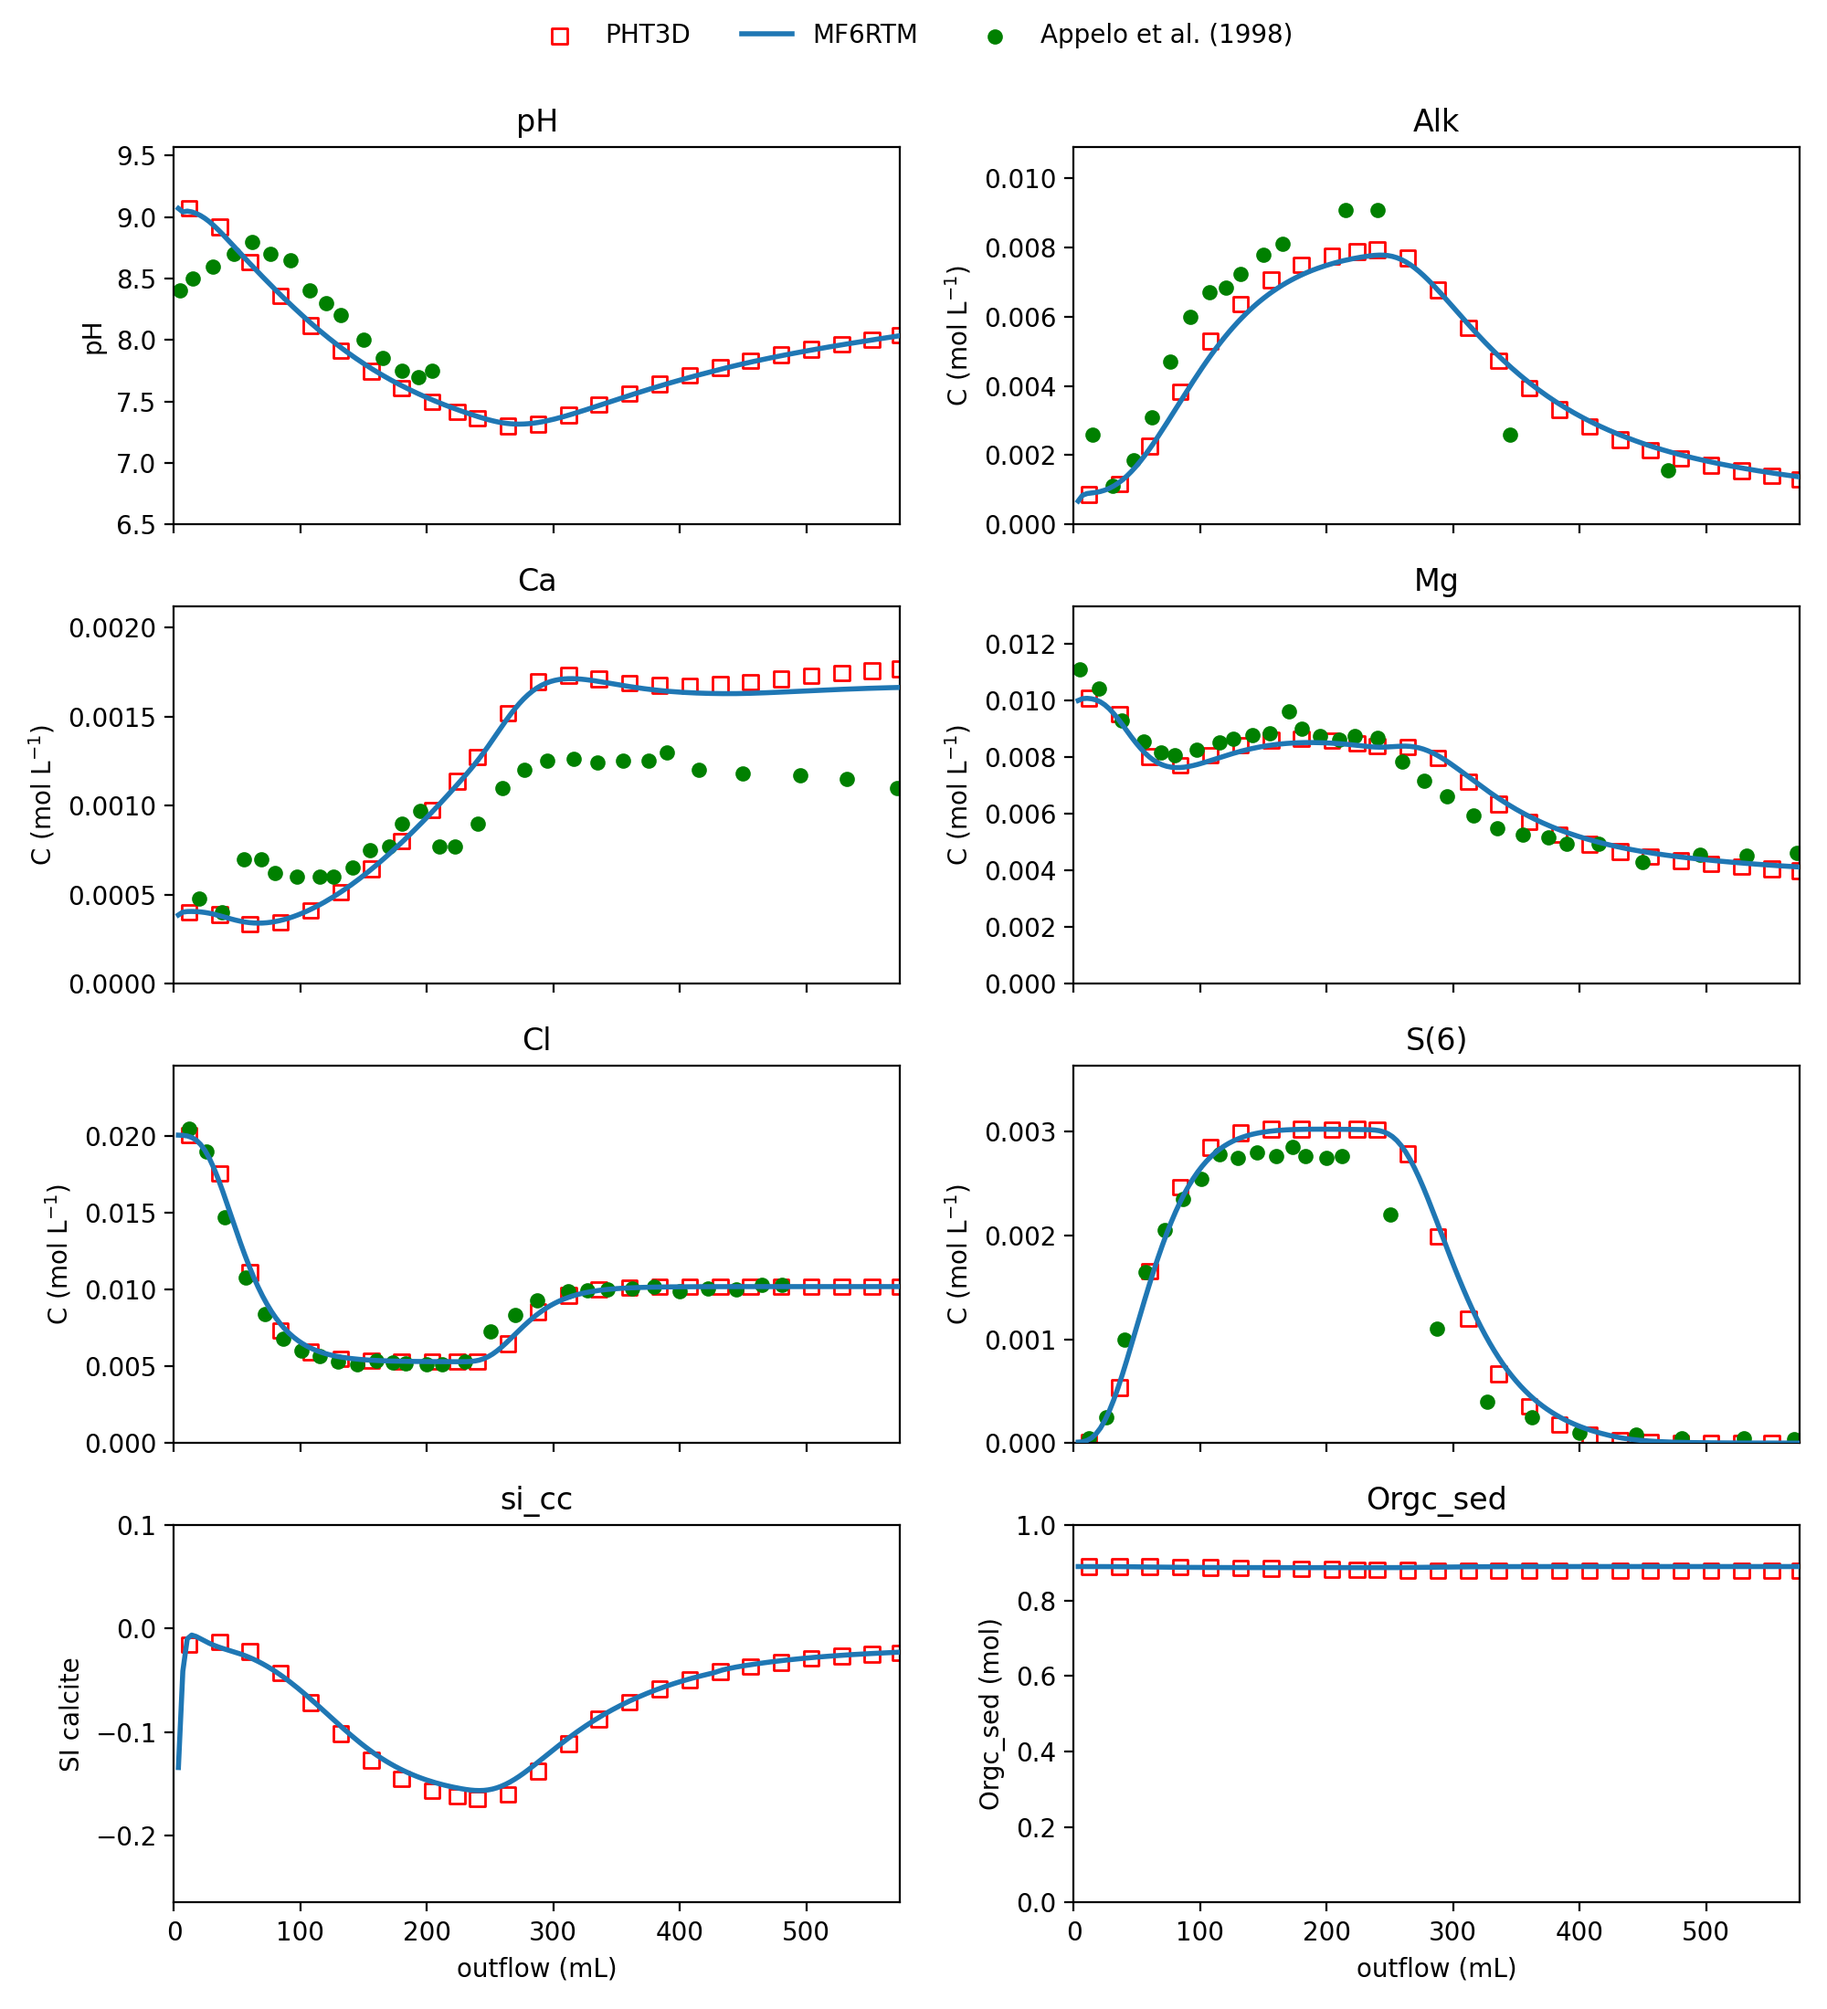
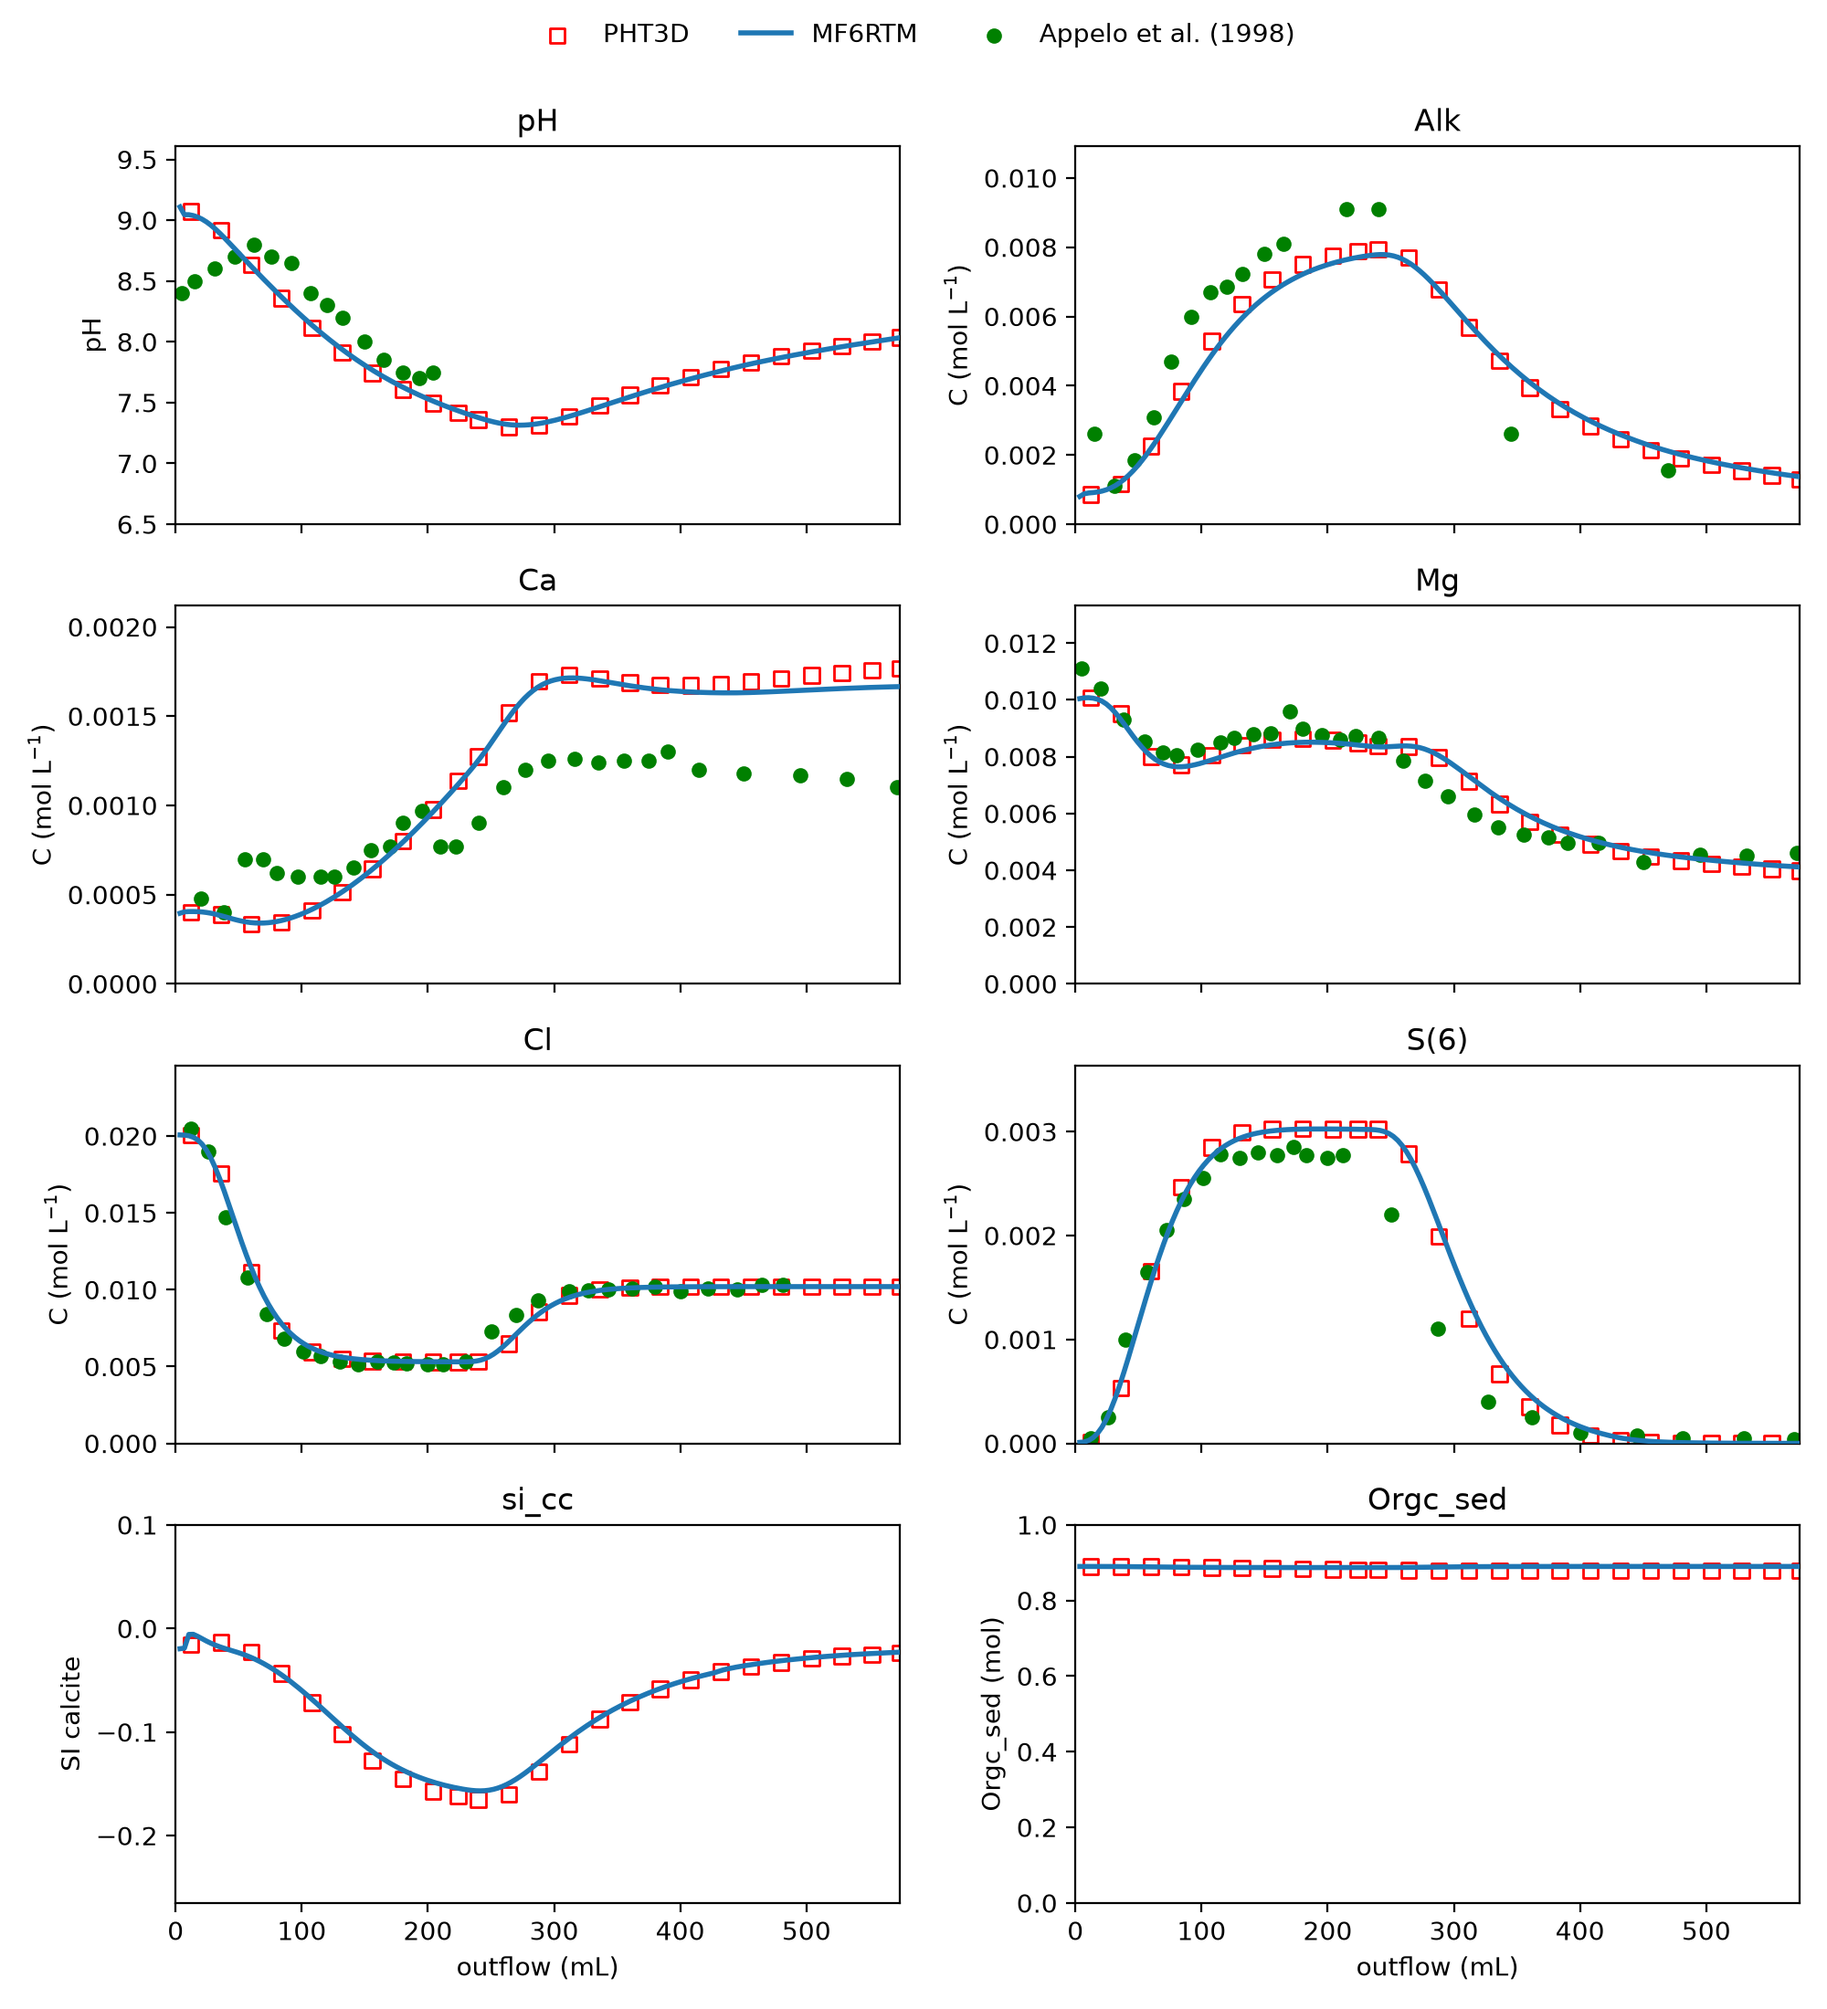
update ex5 with latest solver, update paper to ref new benchmark and add van genuchten reference

diff --git a/JOSS/paper.md b/JOSS/paper.md
@@ -55,7 +55,7 @@ The software provides a unified computational environment, accessible entirely f
 
 In addition, MF6RTM writes chemistry-related inputs as external array files, following the external file workflow of MODFLOW 6. Reactive transport models can therefore be parameterized with the same tools already used for flow models, such as PEST++ [@White2018] and its Python interface pyEMU [@White2016].
 
-Together, these features make predictive reactive transport modeling accessible to the large community of MODFLOW users, allowing reactive transport models to be built, run, and calibrated within a single Python workflow, using the MODFLOW 6 and PEST++ tools already familiar to groundwater modelers.
+Together, these features make predictive reactive transport modeling accessible to the large community of MODFLOW users, allowing reactive transport models to be built, run, and calibrated within a single Python workflow.
 
 # State of the Field
 
@@ -67,7 +67,7 @@ Previous PHREEQC couplings within the MODFLOW ecosystem include PHT3D for MODFLO
 
 Despite the comprehensive ecosystem for reactive transport simulators, to our knowledge, no open-source software couples the current major versions of MODFLOW (v6 released in 2017) and PHREEQC (v3 released in 2013). This gap is significant because the MODFLOW family remains the dominant platform for groundwater flow and transport modeling in regulatory, consulting, and applied research contexts. Existing integrated RTM codes generally require users to rebuild models in alternative frameworks, limiting their adoption for MODFLOW-based workflows. Moreover, as MODFLOW 6 and PHREEQC continue to expand in capability and adoption, keeping a coupled code current requires an approach that does not depend on changes to either source code, and that preserves transparency, extensibility, and computational efficiency. MF6RTM addresses this need by providing a fully open, API-based integration between MODFLOW 6 and PHREEQC. 
 
-In addition, there is a growing expectation that groundwater models, both reactive and non-reactive, explicitly represent uncertainty and support automated history-matching and optimization [@Langevin2012; @White2017]. Historically, most reactive transport workflows have relied on manual modification of input files to perform sensitivity analyses or history-matching, creating a substantial burden for modelers and limiting reproducibility. Because MF6RTM exposes the geochemical inputs as array files that can be modified in the same way as MODFLOW 6 inputs, reactive parameters such as mineral amounts in solid phase can be included directly in uncertainty analysis and multi-objective optimization. MF6RTM therefore fills an important gap in the hydrogeologic modeling ecosystem, bringing reactive processes into the history-matching and uncertainty quantification workflows already applied to groundwater flow models.
+In addition, there is a growing expectation that groundwater models, both reactive and non-reactive, explicitly represent uncertainty and support automated history-matching and optimization [@Langevin2012; @White2017]. Historically, most reactive transport workflows have relied on manual modification of input files to perform sensitivity analyses or history-matching, creating a substantial burden for modelers and limiting reproducibility. Because MF6RTM exposes the geochemical inputs as array files that can be modified in the same way as MODFLOW 6 inputs, reactive parameters such as mineral amounts in solid phase can be included directly in uncertainty analysis and multi-objective optimization. MF6RTM therefore brings reactive processes into the history-matching and uncertainty quantification workflows already applied to groundwater flow models.
 
 
 # Software Design
@@ -98,7 +98,7 @@ In `mup3d`, a geochemical system is defined with one class per PHREEQC input blo
 
 ## Coupling and data exchange
 
-The `simulation` module wraps the MODFLOW 6 shared library through `modflowapi` and PhreeqcRM through its BMI implementation, and couples them by sequential non-iterative operator splitting. For each transport time step: (i) the transport models of all components are solved to convergence; (ii) the cell saturation is read from the flow model; (iii) the concentration vector of each component is read from MODFLOW 6, converted from mol m$^{-3}$ to mol L$^{-1}$, and passed to PhreeqcRM as a single component-by-cell array; (iv) PhreeqcRM integrates the reactions over the same time step; and (v) the reacted concentrations are converted back and written into the MODFLOW 6 concentration arrays before the time step is finalized. Data are exchanged by copy through the BMI `get_value` and `set_value` functions rather than shared memory, as each transfer requires a unit conversion. Porosity is applied by MODFLOW 6, and the PhreeqcRM porosity is therefore set to one. The reaction step can be restricted in two ways: to user-defined time steps, and to cells whose relative concentration change since the previous step exceeds a threshold. A minimum concentration can also be specified, below which concentrations, other than charge, are raised before being passed to PhreeqcRM, to avoid numerical artifacts at near-zero concentrations.
+The `simulation` module wraps the MODFLOW 6 shared library through `modflowapi` and PhreeqcRM through its BMI implementation, and couples them by sequential non-iterative operator splitting. For each transport time step: (i) the transport models of all components are solved to convergence; (ii) the cell saturation is read from the flow model; (iii) the concentration vector of each component is read from MODFLOW 6, converted from mol m$^{-3}$ to mol L$^{-1}$, and passed to PhreeqcRM as a single component-by-cell array; (iv) PhreeqcRM integrates the reactions over the same time step; and (v) the reacted concentrations are converted back and written into the MODFLOW 6 concentration arrays before the time step is finalized. Data are exchanged by copy through the BMI `get_value` and `set_value` functions rather than shared memory, as each transfer requires a unit conversion. Porosity is applied by MODFLOW 6, and the PhreeqcRM porosity is therefore set to one. The reaction step can be restricted in two ways: to user-defined time steps, and, in models without kinetic reactions, to cells whose relative concentration change since the previous step exceeds a threshold, as kinetic reactions proceed even where transport leaves concentrations unchanged. A minimum concentration can also be specified, below which concentrations, other than charge, are raised before being passed to PhreeqcRM, to avoid numerical artifacts at near-zero concentrations.
 
 ## External input files
 
@@ -106,7 +106,7 @@ When external input is enabled, the initial amounts of the exchange, equilibrium
 
 # Benchmarks
 
-Eight benchmark test cases are currently included in the codebase. Each represents a well-known case to confirm the accuracy of results for different combinations of processes, from mineral precipitation and dissolution fronts and cation exchange to pyrite oxidation and the kinetic biodegradation of hydrocarbons with multiple electron acceptors. Results are compared against PHT3D and, in a few cases, against PHREEQC. Example 6 is the same as Example 4 but uses the MODFLOW 6 discretization-by-vertices (DISV). In addition, four tutorials on the documentation website (https://mf6rtm.readthedocs.io) cover the two model-building workflows, including an aquifer storage and recovery case on an unstructured grid, and a fully 3D field-scale model, including a PEST++ setup, is available separately [@Dizon36].
+Nine benchmark test cases are included in the codebase, covering different combinations of processes, from mineral precipitation and dissolution fronts and cation exchange to pyrite oxidation and the kinetic biodegradation of hydrocarbons with multiple electron acceptors. Results are compared against PHT3D and, in a few cases, against PHREEQC. A 1D transport case with first-order kinetic decay is also compared against the analytical solution of @vanGenuchten1982, which isolates the integration of kinetic reactions over each transport time step. In addition, four tutorials on the documentation website (https://mf6rtm.readthedocs.io) cover the two model-building workflows, including an aquifer storage and recovery case on an unstructured grid, and a fully 3D field-scale model, including a PEST++ setup, is available separately [@Dizon36].
 
 Here we present Example 5 to demonstrate usage and that the implementation is correct. This benchmark models a 1D column oxidation experiment in marine sediments containing pyrite, originally described by @Appelo1998. The sediment was first equilibrated with a 280 mmol L$^{-1}$ MgCl$_2$ solution, then flushed with a more dilute MgCl$_2$ solution, and finally oxidized for four pore volumes with an H$_2$O$_2$ solution. Pyrite oxidation drives the hydrochemical evolution, and is accompanied by organic matter oxidation, which competes for the oxidizing capacity, kinetic calcite dissolution, cation exchange, and CO$_2$ sorption on goethite. The geochemical model is set up with `mup3d` as follows (abbreviated from `benchmark/ex5.ipynb`):
 
@@ -149,7 +149,7 @@ MF6RTM closely reproduces the PHT3D simulation for all major ions, pH, alkalinit
 
 # Research Impact Statement
 
-MF6RTM has demonstrated relevance for both academic and applied hydrogeologic modeling. Its main contribution is to make reactive transport modeling with two reference codes, MODFLOW 6 and PHREEQC, accessible from Python through their APIs. Agreement with PHT3D and experimental data across the benchmark cases supports confidence in the implementation.
+The main contribution of MF6RTM is to make reactive transport modeling with two reference codes, MODFLOW 6 and PHREEQC, accessible from Python through their APIs. Agreement with PHT3D and experimental data across the benchmark cases supports confidence in the implementation.
 
 MF6RTM has been applied to a field-scale 3D model of a deep-well injection trial, including a PEST++ setup for history matching and uncertainty analysis [@Dizon36], and to a synthetic aquifer storage and recovery (ASR) case on a 3D unstructured grid (https://github.com/LimnoTech/mf6rtm-asr-example).
 
